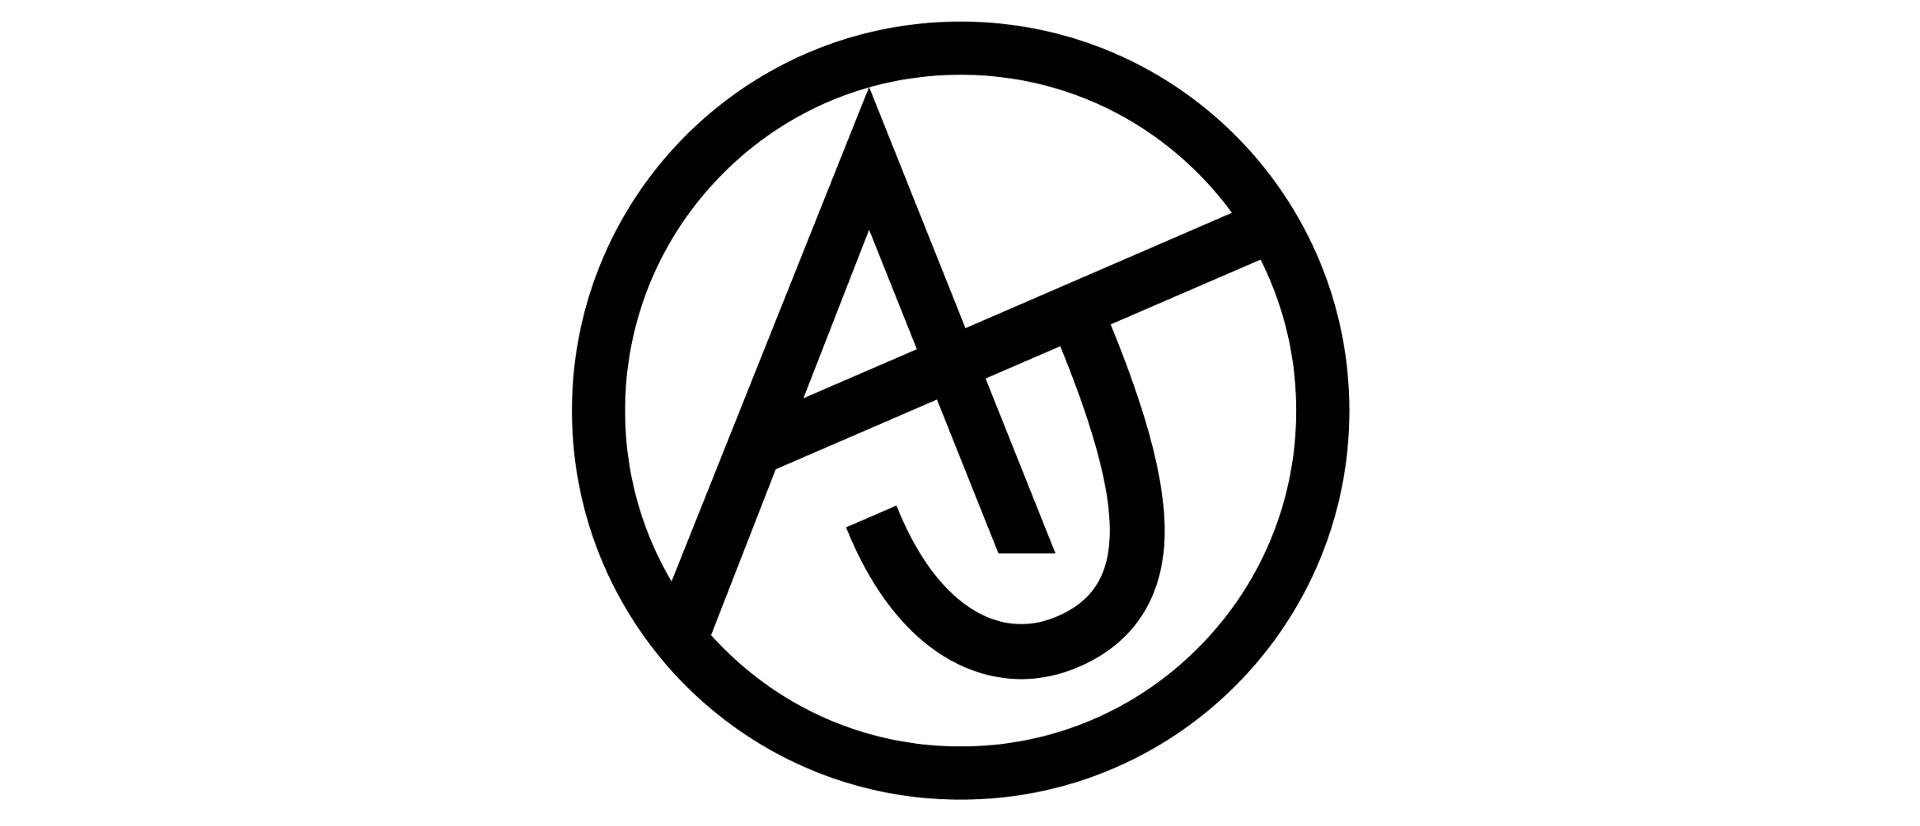
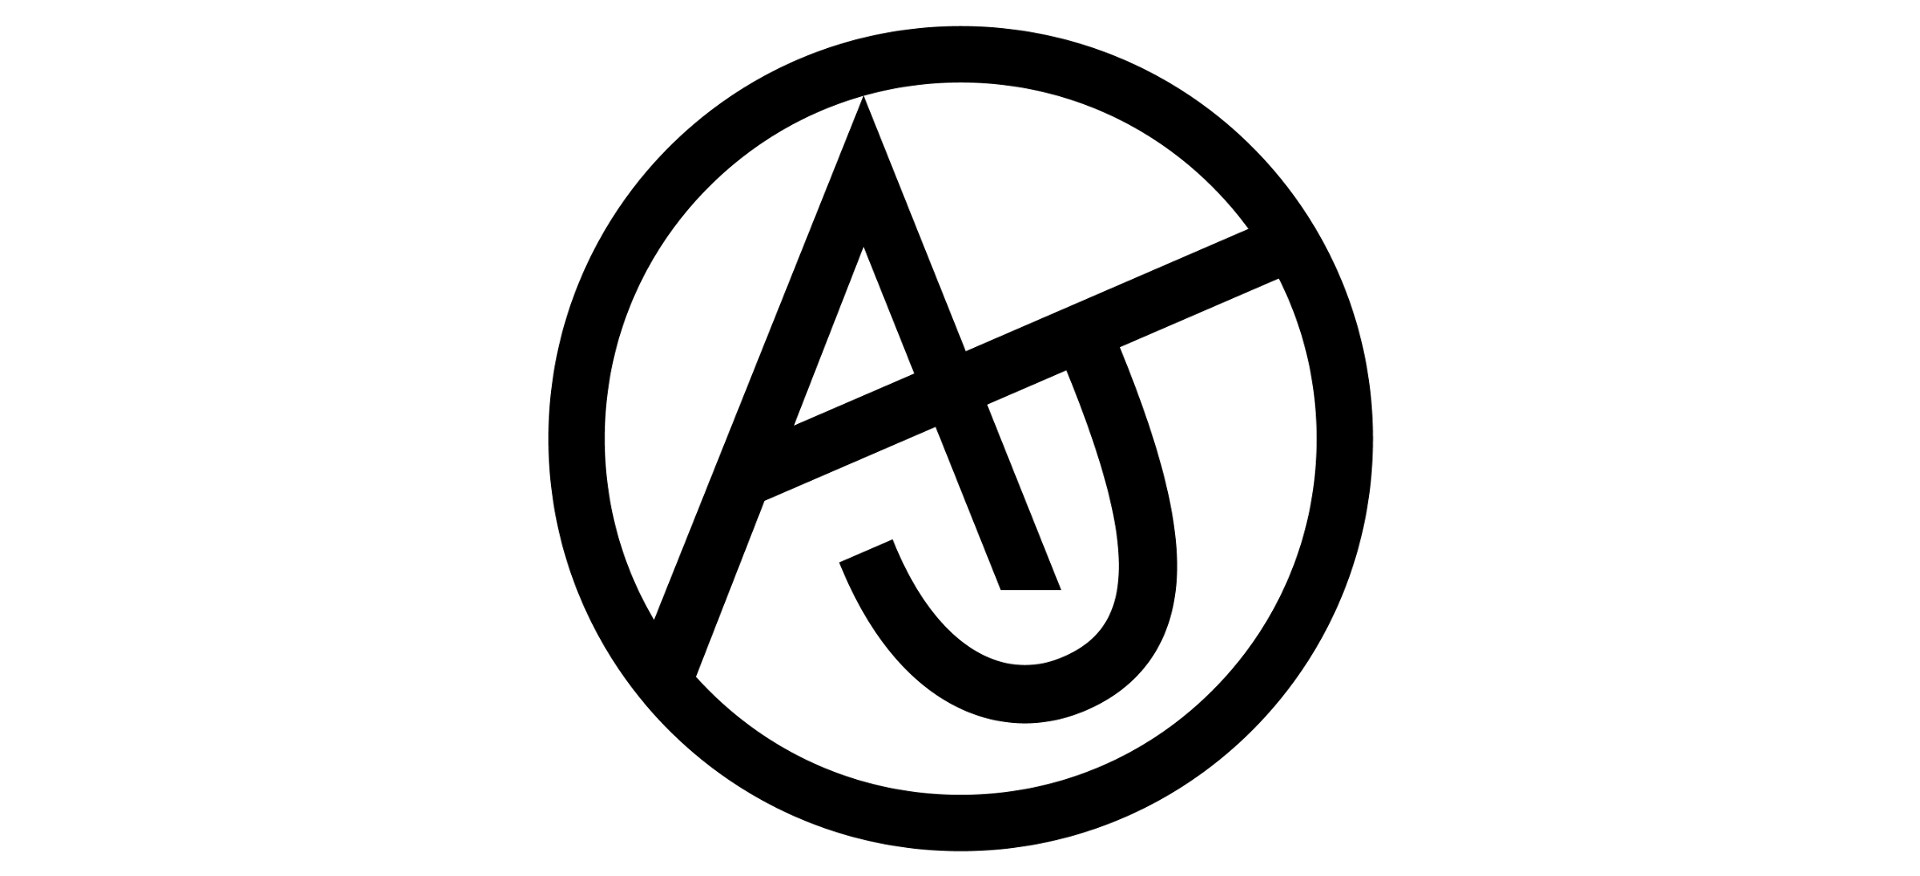
Form touch up and default image replacement

diff --git a/static/css/base.css b/static/css/base.css
@@ -137,27 +137,36 @@ sup {
 .input-form {
   margin: 2rem auto;
   margin-bottom: 1rem;
-  text-align: right;
   width: 40rem;
 }
 
 .form-field-wrapper {
   margin: 1rem 0;
+  margin-bottom: 2rem;
 }
 
 .input-form label {
-  vertical-align: top;
+  display: block;
+  margin-bottom: 0.5rem;
 }
 
 .input-form input, textarea {
+  display: block;
   background: #2c2e3e;
   border: 1px solid #f6f6f6;
+  border-radius: 2px;
+  box-sizing: border-box;
   color: #f6f6f6;
-  font-family: 'Asap', sans-serif;
+  font-family: sans-serif;
   font-size: 0.9rem;
-  margin-left: 1rem;
-  padding: 0.2rem;
-  width: 29.125rem;
+  height: 2.75rem;
+  padding: 0.5rem;
+  width: 100%;
+}
+
+.input-form textarea {
+  height: 10rem;
+  resize: vertical;
 }
 
 input[value="Submit"] {
@@ -167,13 +176,12 @@ input[value="Submit"] {
   border-right: 2px solid #b52036;
   border-top: 2px solid #ee2b47;
   border-radius: 0.25em;
-  width: 29.65rem;
+  width: 10rem;
 }
 
 .input-error {
   color: #ee2b47;
   font-size: 0.9rem;
-  margin-left: 10.5rem;
   text-align: left;
 }
 /*** End of Generic Elements ***/
@@ -403,7 +411,7 @@ input[value="Submit"] {
 }
 
 #project-image-ratio {
-  padding-top: 43.021%;
+  padding-top: /*43.021%;*/45.46875%;
 }
 
 /* About Page */
@@ -523,17 +531,11 @@ input[value="Submit"] {
   }
 
   .input-form {
-    text-align: left;
     width: 100%;
   }
 
   .input-form input, textarea {
-    margin: 0;
     width: 100%;
-  }
-
-  .input-error {
-    margin: 0;
   }
 
   .profile-image {

diff --git a/templates/base.html b/templates/base.html
@@ -27,7 +27,8 @@
           class="typewrite"
           data-text=
           '["Software Engineer", "Full-Stack Developer",
-            "Board Game Enthusiast", "Novice Guitar Plucker", "Human Male"]'
+            "Game Developer", "Board Game Enthusiast", "Novice Guitar Plucker",
+            "Human Male"]'
           data-delay="1000"></span>
         </a>
         <button id="nav-icon" type="button">

diff --git a/adam_joyce_web_portfolio/forms.py b/adam_joyce_web_portfolio/forms.py
@@ -3,16 +3,19 @@ from django import forms
 class EmailForm(forms.Form):
     first_name = forms.CharField(
         label='First Name',
+        label_suffix=' *',
         max_length=100,
         widget=forms.TextInput(attrs={'placeholder': 'Your first name'})
     )
     last_name = forms.CharField(
         label='Last Name',
+        label_suffix=' *',
         max_length=100,
         widget=forms.TextInput(attrs={'placeholder': 'Your last name'})
     )
     company_name = forms.CharField(
         label='Company Name',
+        label_suffix='',
         max_length=100,
         required=False,
         widget=forms.TextInput(
@@ -21,17 +24,20 @@ class EmailForm(forms.Form):
     )
     budget = forms.DecimalField(
         label='Budget',
+        label_suffix=' *',
         min_value=0,
         decimal_places=2,
         widget=forms.TextInput(attrs={'placeholder': 'Your budget in £\'s'})
     )
     email_address = forms.EmailField(
         label='Email',
+        label_suffix=' *',
         max_length=100,
         widget=forms.TextInput(attrs={'placeholder': 'Your email address'})
     )
     phone_number = forms.RegexField(
         label='Phone Number',
+        label_suffix=' *',
         regex='^\+\d{8,15}$',
         max_length=16,
         error_messages=
@@ -42,6 +48,7 @@ class EmailForm(forms.Form):
     )
     project_description = forms.CharField(
         label='Project Descrition',
+        label_suffix=' *',
         widget=forms.Textarea(
             attrs={'placeholder': 'A short description of your project...'}
         )
